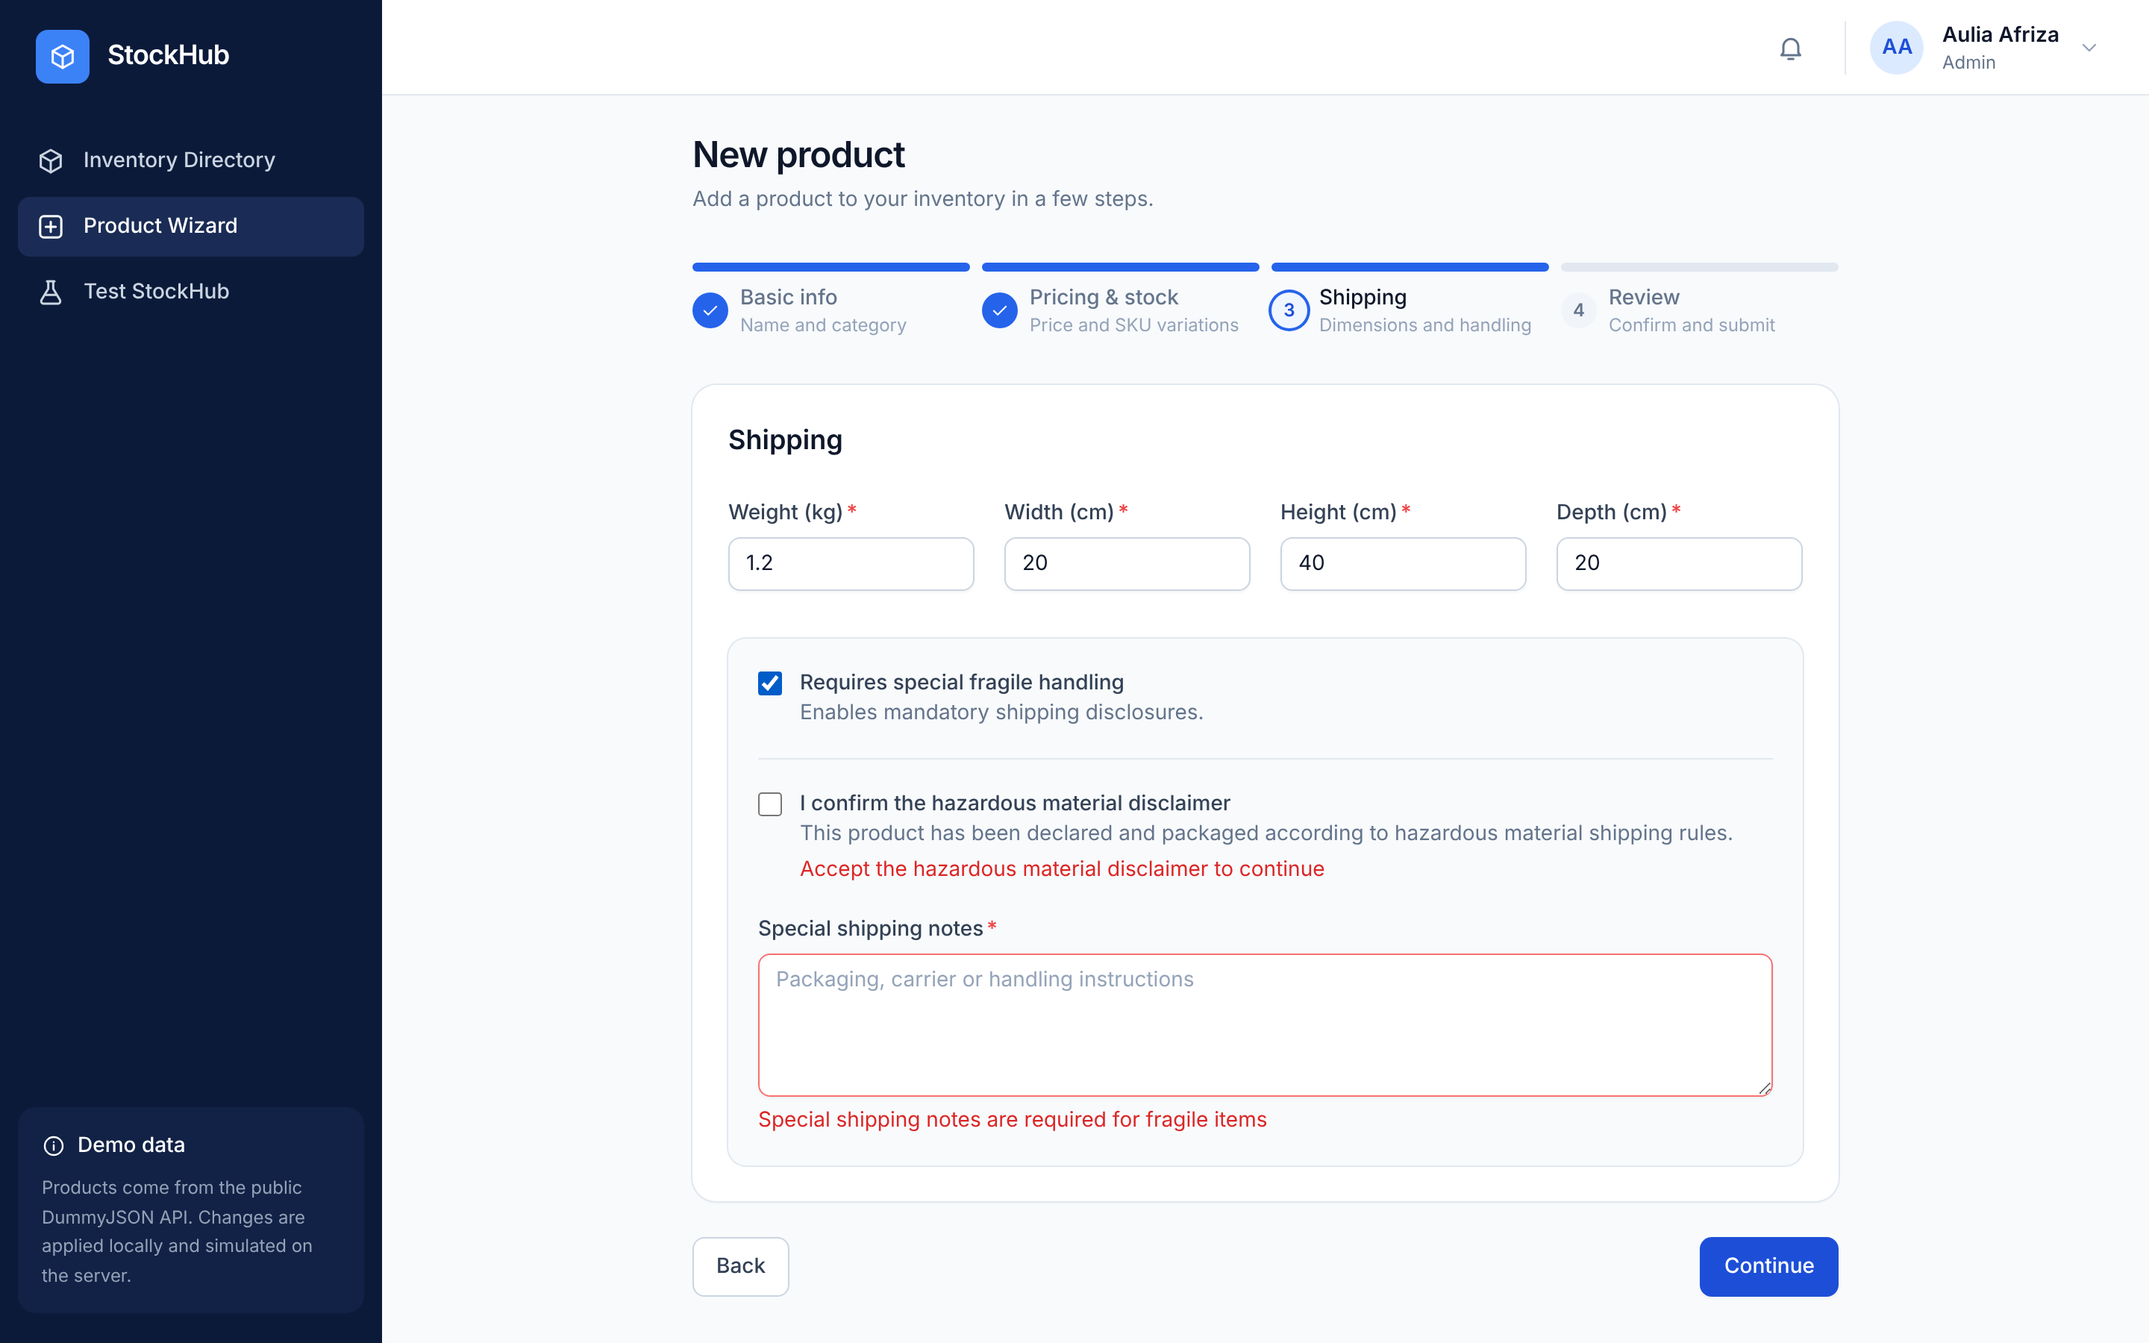
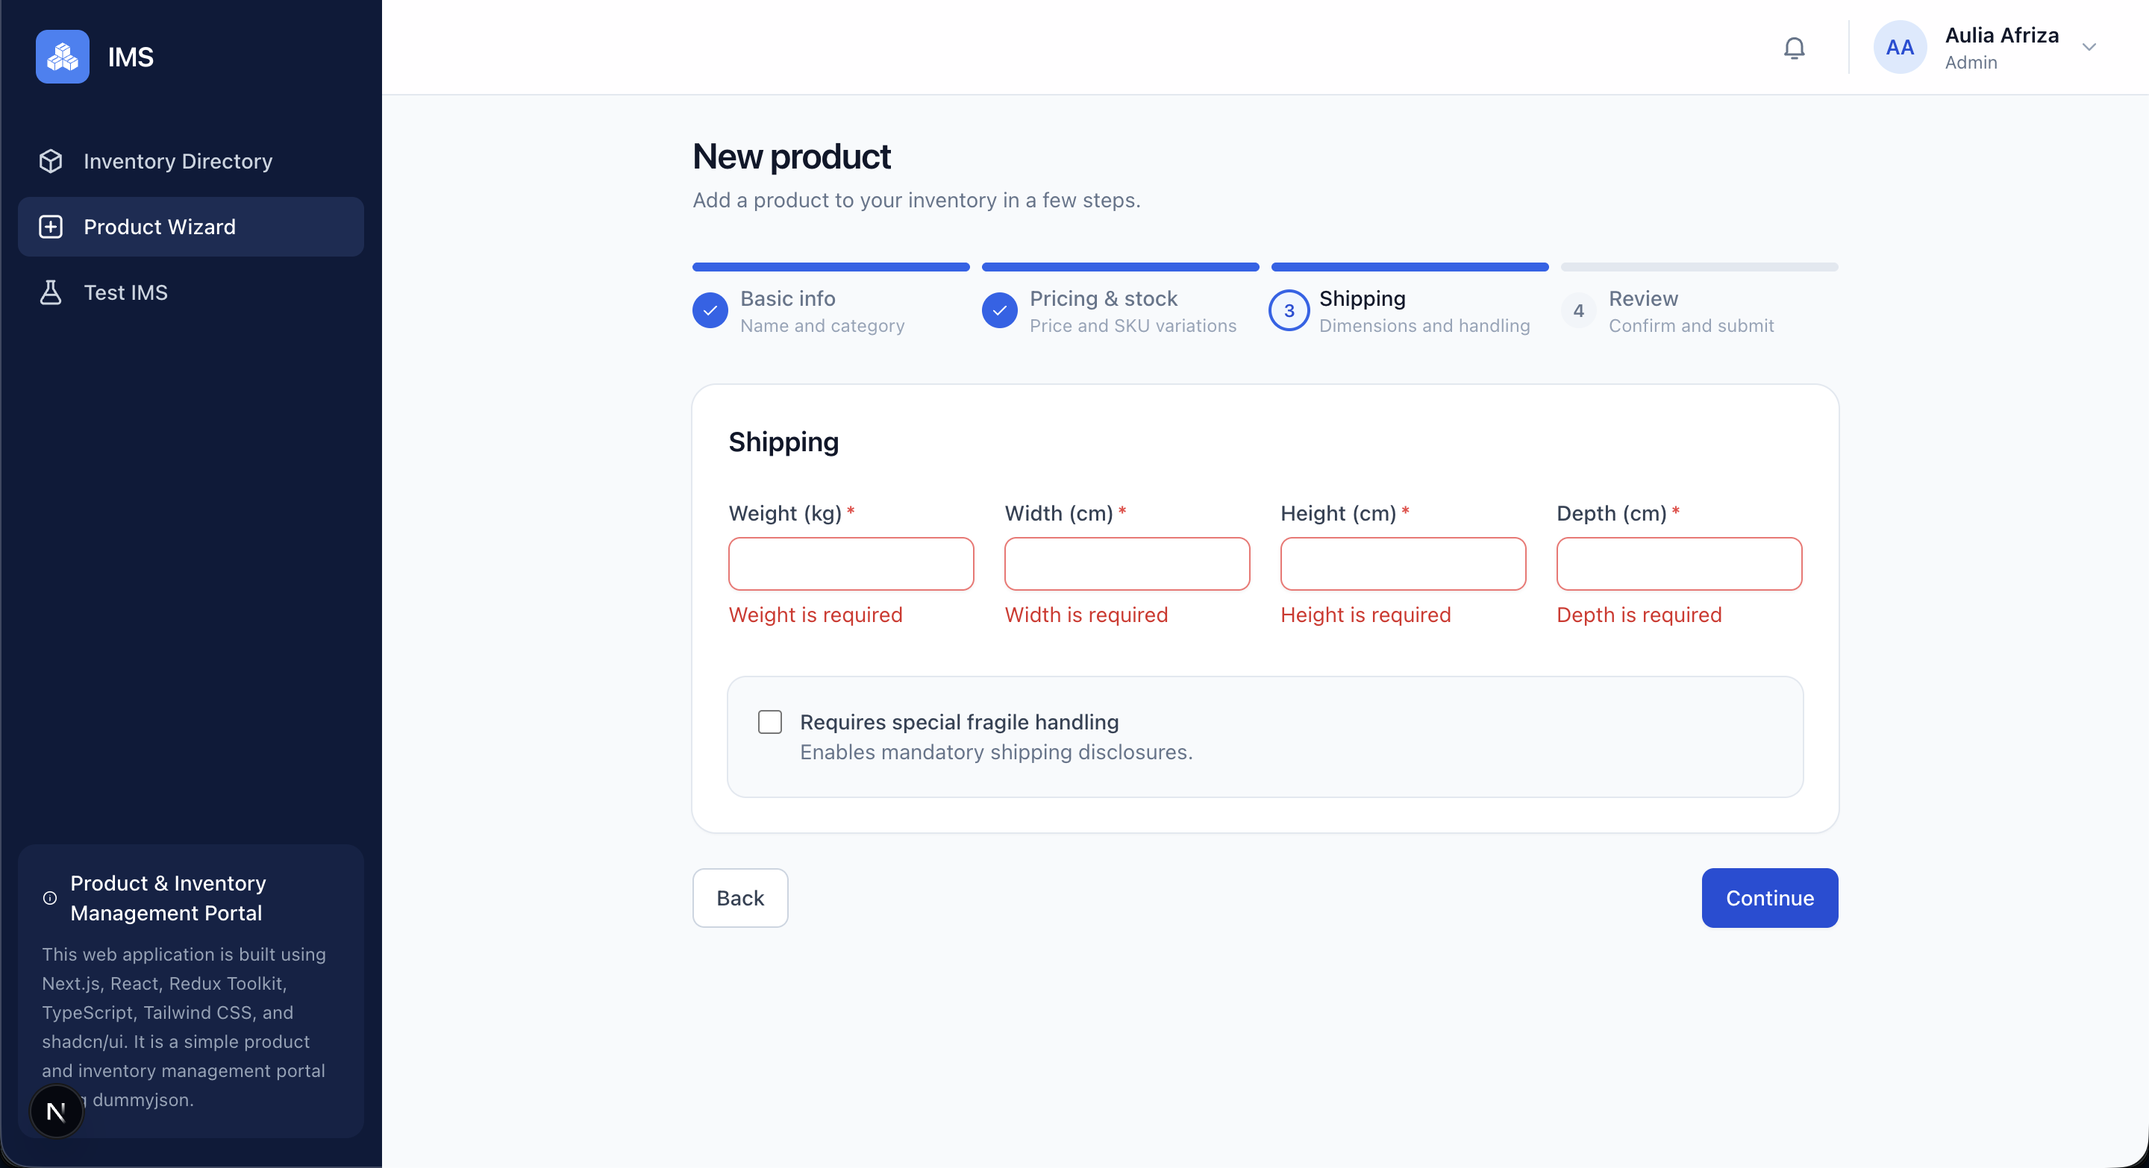
fix: fixing input number validation and update screenshoot and change from stockhub to IMS

diff --git a/src/features/products/components/ProductTable.tsx b/src/features/products/components/ProductTable.tsx
@@ -5,6 +5,7 @@ import type { OptimisticOperation } from "../store/optimisticSlice"
 import type { Product } from "../types"
 import { formatCategoryName } from "../utils/inventoryStats"
 import { NewBadge, PriceTag, ProductActions, StockBadge, StockCount } from "./ProductBits"
+import { StatusOperations } from "../constants"
 
 interface ProductListProps {
   products: Product[]
@@ -14,8 +15,8 @@ interface ProductListProps {
 }
 
 function RowStatus({ operation }: Readonly<{ operation?: OptimisticOperation }>) {
-  if (operation?.status === "pending") return <span className="text-xs text-brand-600">Saving…</span>
-  if (operation?.status === "failed") return <span className="text-xs text-red-600">Failed, changes reverted</span>
+  if (operation?.status === StatusOperations.pending) return <span className="text-xs text-brand-600">Saving…</span>
+  if (operation?.status === StatusOperations.failed) return <span className="text-xs text-red-600">Failed, changes reverted</span>
   return null
 }
 
@@ -68,8 +69,8 @@ export function ProductTable({ products, operations, onEdit, onDelete }: Readonl
                   key={product.id}
                   className={cn(
                     "transition-colors hover:bg-slate-50",
-                    operation?.status === "pending" && "opacity-60",
-                    operation?.status === "failed" && "bg-red-50/60",
+                    operation?.status === StatusOperations.pending && "opacity-60",
+                    operation?.status === StatusOperations.failed && "bg-red-50/60",
                   )}
                 >
                   <td className={cellClass}>
@@ -117,7 +118,7 @@ export function ProductTable({ products, operations, onEdit, onDelete }: Readonl
                     <div className="flex justify-end">
                       <ProductActions
                         product={product}
-                        disabled={operation?.status === "pending"}
+                        disabled={operation?.status === StatusOperations.pending}
                         onEdit={onEdit}
                         onDelete={onDelete}
                       />
@@ -143,8 +144,8 @@ export function ProductCards({ products, operations, onEdit, onDelete }: Readonl
             key={product.id}
             className={cn(
               "flex flex-col overflow-hidden rounded-xl bg-white ring-1 ring-slate-200 transition-shadow hover:shadow-md",
-              operation?.status === "pending" && "opacity-60",
-              operation?.status === "failed" && "ring-red-300",
+              operation?.status === StatusOperations.pending && "opacity-60",
+              operation?.status === StatusOperations.failed && "ring-red-300",
             )}
           >
             <Link href={`/products/${product.id}`} className="block bg-slate-100">
@@ -181,7 +182,7 @@ export function ProductCards({ products, operations, onEdit, onDelete }: Readonl
                 </span>
                 <ProductActions
                   product={product}
-                  disabled={operation?.status === "pending"}
+                  disabled={operation?.status === StatusOperations.pending}
                   onEdit={onEdit}
                   onDelete={onDelete}
                 />

diff --git a/src/components/ui/fields.tsx b/src/components/ui/fields.tsx
@@ -1,7 +1,9 @@
 import {
   forwardRef,
   useId,
+  type ClipboardEvent,
   type InputHTMLAttributes,
+  type KeyboardEvent,
   type ReactNode,
   type SelectHTMLAttributes,
   type TextareaHTMLAttributes,
@@ -71,9 +73,32 @@ interface BaseFieldProps {
   fieldClassName?: string
 }
 
+const BLOCKED_NUMBER_KEYS = new Set(["e", "E", "+", "-"])
+const DECIMAL_KEYS = new Set([".", ","])
+
+function isWholeNumberField(step: InputHTMLAttributes<HTMLInputElement>["step"]): boolean {
+  return step === 1 || step === "1"
+}
+
 export const TextField = forwardRef<HTMLInputElement, BaseFieldProps & InputHTMLAttributes<HTMLInputElement>>(
-  function TextField({ label, error, hint, fieldClassName, className, required, ...props }, ref) {
+  function TextField({ label, error, hint, fieldClassName, className, required, onKeyDown, onPaste, ...props }, ref) {
     const id = useId()
+    const isNumber = props.type === "number"
+    const wholeOnly = isNumber && isWholeNumberField(props.step)
+
+    const handleKeyDown = (event: KeyboardEvent<HTMLInputElement>) => {
+      onKeyDown?.(event)
+      if (!isNumber || event.defaultPrevented || event.ctrlKey || event.metaKey) return
+      if (BLOCKED_NUMBER_KEYS.has(event.key) || (wholeOnly && DECIMAL_KEYS.has(event.key))) event.preventDefault()
+    }
+
+    const handlePaste = (event: ClipboardEvent<HTMLInputElement>) => {
+      onPaste?.(event)
+      if (!isNumber || event.defaultPrevented) return
+      const pattern = wholeOnly ? /^\d+$/ : /^\d*[.,]?\d+$/
+      if (!pattern.test(event.clipboardData.getData("text").trim())) event.preventDefault()
+    }
+
     return (
       <FieldShell id={id} label={label} error={error} hint={hint} required={required} className={fieldClassName}>
         <input
@@ -84,6 +109,9 @@ export const TextField = forwardRef<HTMLInputElement, BaseFieldProps & InputHTML
           aria-invalid={Boolean(error)}
           aria-describedby={describedBy(id, error, hint)}
           className={cn(controlClass, controlState(error), className)}
+          inputMode={isNumber ? (wholeOnly ? "numeric" : "decimal") : props.inputMode}
+          onKeyDown={handleKeyDown}
+          onPaste={handlePaste}
           {...props}
         />
       </FieldShell>

diff --git a/src/components/layout/SidebarContent.tsx b/src/components/layout/SidebarContent.tsx
@@ -2,7 +2,8 @@
 
 import Link from "next/link"
 import { usePathname } from "next/navigation"
-import { BoxIcon, InfoIcon } from "@/components/ui/icons"
+import { InfoIcon } from "@/components/ui/icons"
+import { LogoIcon } from "@/components/ui/Logo"
 import { cn } from "@/lib/utils/cn"
 import { NAV_ITEMS } from "./navigation"
 
@@ -13,9 +14,9 @@ export function SidebarContent({ onNavigate }: Readonly<{ onNavigate?: () => voi
     <div className="flex h-full flex-col bg-navy-900 px-3 py-5 text-slate-300">
       <Link href="/products" onClick={onNavigate} className="mb-8 flex items-center gap-3 px-3 text-white">
         <span className="flex size-9 items-center justify-center rounded-lg bg-brand-500 text-white">
-          <BoxIcon />
+          <LogoIcon className="size-6" />
         </span>
-        <span className="text-lg font-semibold tracking-tight">StockHub</span>
+        <span className="text-lg font-semibold tracking-tight">IMS</span>
       </Link>
 
       <nav aria-label="Main" className="space-y-1">
@@ -45,7 +46,7 @@ export function SidebarContent({ onNavigate }: Readonly<{ onNavigate?: () => voi
           Product & Inventory Management Portal
         </div>
         <p className="mt-2 text-xs leading-relaxed text-slate-400">
-          This web application is built using Next.js, React, Redux Toolkit, TypeScript, Tailwind CSS, and shadcn/ui. It is a simple product and inventory management portal using dummyjson.
+          This web application is built using Next.js, React, Redux Toolkit, TypeScript, Tailwind CSS. It is a simple product and inventory management portal using dummyjson.
         </p>
       </div>
     </div>

diff --git a/src/components/ui/fields.test.tsx b/src/components/ui/fields.test.tsx
@@ -1,0 +1,49 @@
+import { render, screen } from "@testing-library/react"
+import userEvent from "@testing-library/user-event"
+import { describe, expect, it } from "vitest"
+import { TextField } from "./fields"
+
+describe("TextField numeric input", () => {
+  it("rejects exponent and sign characters", async () => {
+    const user = userEvent.setup({ delay: null })
+    render(<TextField label="Price" type="number" step="0.01" />)
+    const input = screen.getByLabelText("Price")
+
+    await user.type(input, "1e+-5.5")
+
+    expect(input).toHaveValue(15.5)
+  })
+
+  it("rejects decimal separators for whole number fields", async () => {
+    const user = userEvent.setup({ delay: null })
+    render(<TextField label="Stock" type="number" step="1" />)
+    const input = screen.getByLabelText("Stock")
+
+    await user.type(input, "1.2,3")
+
+    expect(input).toHaveValue(123)
+  })
+
+  it("blocks pasting non numeric text but allows plain numbers", async () => {
+    const user = userEvent.setup({ delay: null })
+    render(<TextField label="Price" type="number" step="0.01" />)
+    const input = screen.getByLabelText("Price")
+
+    await user.click(input)
+    await user.paste("1e5")
+    expect(input).toHaveValue(null)
+
+    await user.paste("42.5")
+    expect(input).toHaveValue(42.5)
+  })
+
+  it("leaves text inputs untouched", async () => {
+    const user = userEvent.setup({ delay: null })
+    render(<TextField label="Name" />)
+    const input = screen.getByLabelText("Name")
+
+    await user.type(input, "e+-1")
+
+    expect(input).toHaveValue("e+-1")
+  })
+})

diff --git a/src/features/products/hooks/useResetWizardOnLeave.test.tsx b/src/features/products/hooks/useResetWizardOnLeave.test.tsx
@@ -1,0 +1,35 @@
+import { renderHook } from "@testing-library/react"
+import { describe, expect, it } from "vitest"
+import { DRAFT_STORAGE_KEY } from "../constants"
+import { draftSaved } from "../store/wizardSlice"
+import { makeStore } from "@/store"
+import { Provider } from "react-redux"
+import type { ReactNode } from "react"
+import { useResetWizardOnLeave } from "./useResetWizardOnLeave"
+
+function setup(initialPath: string) {
+  const store = makeStore()
+  store.dispatch(draftSaved({ title: "Lamp" }, 2))
+  const wrapper = ({ children }: { children: ReactNode }) => <Provider store={store}>{children}</Provider>
+  const hook = renderHook(({ path }) => useResetWizardOnLeave(path), { wrapper, initialProps: { path: initialPath } })
+  return { store, ...hook }
+}
+
+describe("useResetWizardOnLeave", () => {
+  it("clears the draft and step when leaving the wizard", () => {
+    const { store, rerender } = setup("/products/new")
+    expect(store.getState().wizard.step).toBe(2)
+
+    rerender({ path: "/testing" })
+
+    expect(store.getState().wizard.step).toBe(0)
+    expect(store.getState().wizard.values).toEqual({})
+    expect(window.localStorage.getItem(DRAFT_STORAGE_KEY)).toBeNull()
+  })
+
+  it("keeps the draft while staying on the wizard or visiting other pages", () => {
+    const { store, rerender } = setup("/products")
+    rerender({ path: "/testing" })
+    expect(store.getState().wizard.step).toBe(2)
+  })
+})

diff --git a/src/features/products/pages/ProductsPage.tsx b/src/features/products/pages/ProductsPage.tsx
@@ -26,6 +26,7 @@ import { useDeleteProductMutation, useUpdateProductMutation } from "../services/
 import { useGetCategoriesQuery, useGetProductsQuery } from "../services/productsApi"
 import { viewChanged } from "../store/filtersSlice"
 import { selectOperations } from "../store/optimisticSlice"
+import { toastAdded } from "../store/toastSlice"
 import type { Product, ProductCategory, ProductPatch } from "../types"
 import { buildProductsCsv, downloadCsv } from "../utils/exportCsv"
 import { hasActiveFilters } from "../utils/filtersUrl"
@@ -56,9 +57,13 @@ export function ProductsPage() {
 
   const handleUpdate = useCallback(
     (product: Product, patch: ProductPatch) => {
+      if (Object.keys(patch).length === 0) {
+        dispatch(toastAdded({ kind: "info", message: `No changes to save for "${product.title}"` }))
+        return
+      }
       void updateProduct({ id: product.id, title: patch.title ?? product.title, patch })
     },
-    [updateProduct],
+    [dispatch, updateProduct],
   )
 
   const total = currentData?.total ?? 0
@@ -132,7 +137,7 @@ export function ProductsPage() {
           Product &amp; Inventory Management Portal
         </h1>
         <p className="mt-1 text-sm text-slate-500">
-          Manage your products, track inventory, and keep your business running smoothly.
+          Manage your products and track inventory.
         </p>
       </div>
 

diff --git a/src/features/products/pages/ProductWizardPage.test.tsx b/src/features/products/pages/ProductWizardPage.test.tsx
@@ -285,4 +285,26 @@ describe("ProductWizardPage", () => {
     expect(screen.getByRole("button", { name: "Create product" })).toBeDisabled()
     expect(submissions).toBe(0)
   })
+
+  it("keeps variation fields editable after a failed step check and an autosave", async () => {
+    const user = userEvent.setup({ delay: null })
+    renderWithProviders(<ProductWizardPage />)
+
+    await fillBasicInfo(user)
+    await user.click(screen.getByRole("button", { name: "Continue" }))
+    await user.type(await screen.findByLabelText(/base price/i), "10")
+    await user.type(screen.getByLabelText(/stock quantity/i), "1")
+    await user.click(screen.getByRole("button", { name: /add variation/i }))
+    await user.click(screen.getByRole("button", { name: "Continue" }))
+    expect(await screen.findByText("Color is required")).toBeInTheDocument()
+
+    await new Promise((resolve) => setTimeout(resolve, 600))
+    await user.type(screen.getByLabelText("Color"), "Red")
+    await user.type(screen.getByLabelText("Size"), "M")
+    await user.type(screen.getByLabelText("SKU code"), "SKU-RED-1001")
+
+    await waitFor(() => expect(screen.queryByText(/is required/)).not.toBeInTheDocument())
+    await user.click(screen.getByRole("button", { name: "Continue" }))
+    expect(await screen.findByRole("heading", { name: "Shipping", level: 2 })).toBeInTheDocument()
+  })
 })

diff --git a/src/components/ui/Logo.tsx b/src/components/ui/Logo.tsx
@@ -1,0 +1,23 @@
+import { useId } from "react"
+
+export function LogoIcon({ className }: Readonly<{ className?: string }>) {
+  const maskId = useId()
+
+  return (
+    <svg viewBox="0 0 64 64" fill="currentColor" aria-hidden="true" className={className}>
+      <mask id={maskId} maskUnits="userSpaceOnUse" x="0" y="0" width="64" height="64">
+        <rect width="64" height="64" fill="white" />
+        <path
+          d="M27 16.9 L37 11.1 M13 38.9 L23 33.1 M41 38.9 L51 33.1"
+          stroke="black"
+          strokeWidth="1.8"
+          strokeLinecap="round"
+        />
+      </mask>
+      <path
+        mask={`url(#${maskId})`}
+        d="M32.00 6.80 L44.60 14.00 L32.00 21.20 L19.40 14.00Z M18.70 15.10 L31.30 22.30 L31.30 34.90 L18.70 27.70Z M32.70 22.30 L45.30 15.10 L45.30 27.70 L32.70 34.90Z M18.00 28.80 L30.60 36.00 L18.00 43.20 L5.40 36.00Z M4.70 37.10 L17.30 44.30 L17.30 56.90 L4.70 49.70Z M18.70 44.30 L31.30 37.10 L31.30 49.70 L18.70 56.90Z M46.00 28.80 L58.60 36.00 L46.00 43.20 L33.40 36.00Z M32.70 37.10 L45.30 44.30 L45.30 56.90 L32.70 49.70Z M46.70 44.30 L59.30 37.10 L59.30 49.70 L46.70 56.90Z"
+      />
+    </svg>
+  )
+}

diff --git a/src/features/products/pages/ProductsPage.test.tsx b/src/features/products/pages/ProductsPage.test.tsx
@@ -255,4 +255,20 @@ describe("ProductsPage", () => {
     expect(within(screen.getByRole("table")).getByText("$25.00")).toBeInTheDocument()
     expect(await screen.findByText('"Essence Mascara" updated', undefined, { timeout: 3000 })).toBeInTheDocument()
   })
+
+  it("tells the user when an edit has no changes", async () => {
+    const user = userEvent.setup({ delay: null })
+    const { store } = renderPage()
+    await screen.findByRole("table")
+
+    await user.click(screen.getByRole("button", { name: "Edit Essence Mascara" }))
+    const dialog = await screen.findByRole("dialog", { name: "Edit product" })
+    await user.click(within(dialog).getByRole("button", { name: "Save changes" }))
+
+    await waitFor(() => expect(screen.queryByRole("dialog")).not.toBeInTheDocument())
+    expect(store.getState().toasts.items[0]).toMatchObject({
+      kind: "info",
+      message: 'No changes to save for "Essence Mascara"',
+    })
+  })
 })

diff --git a/src/features/products/components/ProductEditDialog.tsx b/src/features/products/components/ProductEditDialog.tsx
@@ -51,8 +51,7 @@ export function ProductEditDialog({ product, onClose, onSubmit }: Readonly<Produ
 
   const submit = handleSubmit((values) => {
     if (!product) return
-    const patch = buildPatch(product, values)
-    if (Object.keys(patch).length > 0) onSubmit(product, patch)
+    onSubmit(product, buildPatch(product, values))
     onClose()
   })
 
@@ -77,6 +76,8 @@ export function ProductEditDialog({ product, onClose, onSubmit }: Readonly<Produ
           <TextField
             label="Stock"
             type="number"
+            step="1"
+            min="0"
             required
             error={errors.stock?.message}
             {...register("stock", { valueAsNumber: true })}

diff --git a/src/features/products/components/wizard/ProductPreview.tsx b/src/features/products/components/wizard/ProductPreview.tsx
@@ -22,7 +22,7 @@ export function ProductPreview(props: Readonly<ProductPreviewProps>) {
     <section aria-label="Product preview" className="overflow-hidden rounded-xl bg-slate-50 ring-1 ring-slate-200">
       <div className="flex items-center justify-between border-b border-slate-200 bg-white px-5 py-3">
         <h3 className="text-base font-semibold text-slate-900">Product preview</h3>
-        <span className="text-xs text-slate-500">How it will appear in your inventory</span>
+        <span className="text-xs text-slate-500">Preview your product</span>
       </div>
       <div className="flex flex-col gap-5 p-5 sm:flex-row">
         <Image

diff --git a/src/components/layout/AppShell.tsx b/src/components/layout/AppShell.tsx
@@ -2,6 +2,7 @@
 
 import { useEffect, useState, type ReactNode } from "react"
 import { usePathname } from "next/navigation"
+import { useResetWizardOnLeave } from "@/features/products/hooks/useResetWizardOnLeave"
 import { MobileSidebar } from "./MobileSidebar"
 import { SidebarContent } from "./SidebarContent"
 import { TopBar } from "./TopBar"
@@ -9,6 +10,7 @@ import { TopBar } from "./TopBar"
 export function AppShell({ children }: Readonly<{ children: ReactNode }>) {
   const pathname = usePathname()
   const [menuOpen, setMenuOpen] = useState(false)
+  useResetWizardOnLeave(pathname)
 
   useEffect(() => {
     setMenuOpen(false)
